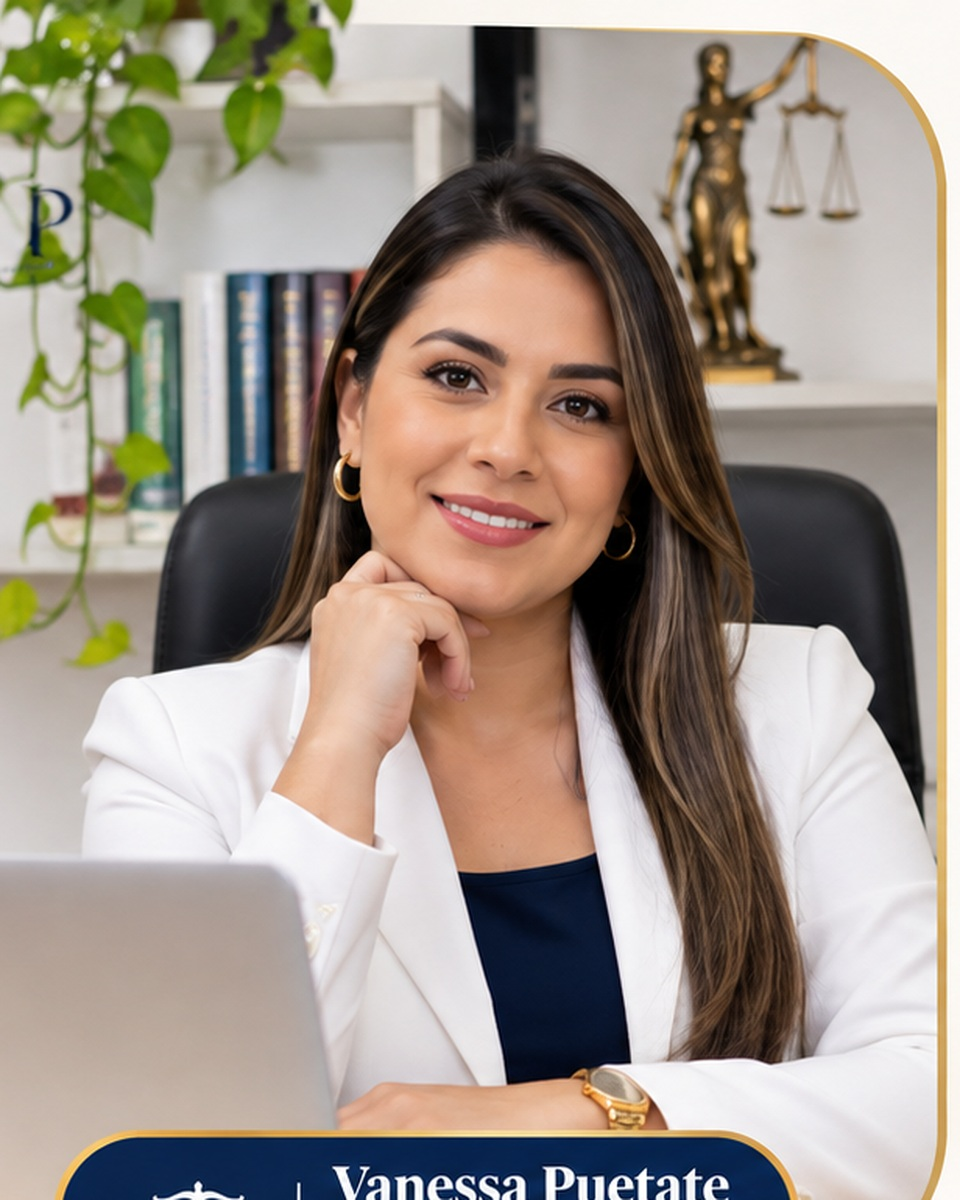
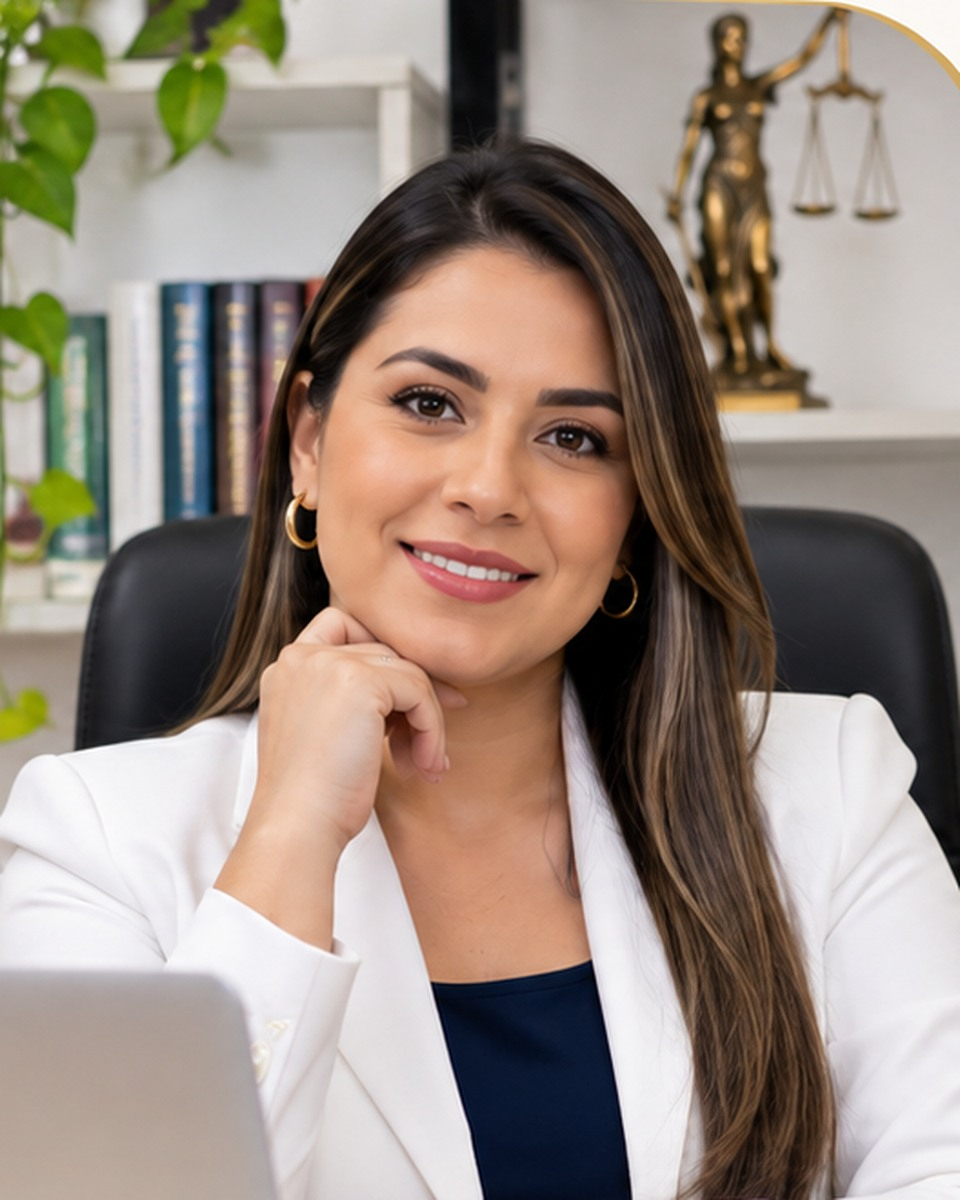
Add files via upload

diff --git a/index.html b/index.html
@@ -733,6 +733,21 @@ input:focus,select:focus,textarea:focus{
   .about-value{min-height:72px}
 }
 
+
+.about-photo-note{
+  position:absolute;
+  top:14px;
+  right:14px;
+  padding:6px 10px;
+  border-radius:20px;
+  color:#123050;
+  background:rgba(255,255,255,.88);
+  font-size:.72rem;
+  letter-spacing:.01em;
+  font-weight:700;
+  box-shadow:0 3px 15px rgba(0,0,0,.07);
+}
+
 </style>
 
 <link rel="canonical" href="https://vanessapuetate.com/">
@@ -916,7 +931,8 @@ input:focus,select:focus,textarea:focus{
     <div class="about-grid">
       <div class="about-photo-wrap">
         <div class="about-photo-frame">
-          <img class="about-photo" src="vanessa-perfil.jpg" alt="Foto profesional de Vanessa Puetate">
+          <img class="about-photo" src="vanessa-perfil.jpg" alt="Fotografía ilustrativa temporal para la sección de presentación">
+          <span class="about-photo-note">Imagen ilustrativa</span>
         </div>
         <div class="about-badge">
           <strong>Vanessa Puetate</strong>
@@ -927,13 +943,14 @@ input:focus,select:focus,textarea:focus{
       <div class="about-copy">
         <p class="eyebrow">CONOCE A VANESSA</p>
         <h2>Orientación jurídica cercana, clara y responsable</h2>
-        <p class="about-lead">Un acompañamiento profesional para entender tu situación y definir el siguiente paso.</p>
 
-        <p>Soy Vanessa Puetate, abogada comprometida con brindar orientación jurídica clara y comprensible para que cada persona pueda conocer su situación y tomar decisiones informadas.</p>
+        <p>Soy Vanessa Puetate, abogada con experiencia en asesoría jurídica, elaboración y revisión de contratos, análisis normativo, redacción de conceptos jurídicos y gestión de procesos legales.</p>
 
-        <p>Mi atención se enfoca principalmente en asuntos de derecho de familia, civil y laboral, así como en contratos, conciliación, derechos de petición, acciones de tutela y elaboración de documentos jurídicos.</p>
+        <p>Mi ejercicio profesional se caracteriza por la atención al detalle, la comunicación clara, la capacidad de negociación y el compromiso con la búsqueda de soluciones jurídicas prácticas y ajustadas a las necesidades de cada persona.</p>
 
-        <p>Cada consulta parte de escuchar tu situación, analizarla con atención y explicarte las alternativas disponibles de una forma clara y directa.</p>
+        <p>Brindo orientación principalmente en asuntos de derecho de familia, civil y laboral, así como en conciliación, derechos de petición, acciones de tutela y elaboración de documentos jurídicos.</p>
+
+        <p>Creo en la importancia de escuchar, comprender cada situación y construir relaciones basadas en el respeto, la confianza y la confidencialidad. Mi propósito es que recibas una atención personalizada, comprendas tus alternativas jurídicas y cuentes con la información necesaria para tomar decisiones fundamentadas.</p>
 
         <div class="about-values">
           <div class="about-value">
